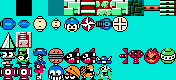
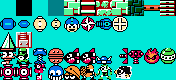
(#166) Added PePe (flying penguin) Enemy
In the Ice Man level, the PePe enemy was misclassified as a Bunby Heli, so I turned the unused "n" enemy tile from MM.json and used it to represent the PePe enemy. The corresponding fix has been made to the VGLC, along with the mapsheet.

Also added a new sprite for the PePe enemy; it doesn't look perfect, so maybe it'll just have to live on my branch for the time being

Changed region(s): [[0.625, 0.825, 0.767, 1.0]]

diff --git a/level_dataset.py b/level_dataset.py
@@ -305,7 +305,10 @@ def mm_tiles(game):
             (4,3),    #35 = Bunby Heli enemy
             (4,4),    #36 = Met enemy
             (4,5),    #37 = Picket man enemy
-            (4,6)     #38 = Crazy razy enemy
+            (4,6),    #38 = Crazy razy enemy
+            (4,7),    #39 = PePe penguin enemy
+            
+            (3,7)     #40 = Changkey fire pillar enemy (reuses the tackle-fire sprite, which doesn't actually have its own tile in MM.json)
         ]
     else:
         MM_tile_coordinates = [
@@ -328,7 +331,12 @@ def mm_tiles(game):
 
     # Extract each tile as a 16x16 image
     MM_tile_images = []
-    for row, col in MM_tile_coordinates:
+    for coord in MM_tile_coordinates:
+        if coord is None:
+            # No sprite exists for this tile on the sheet; use a gray placeholder.
+            MM_tile_images.append(Image.new('RGB', (DIM, DIM), color=(128, 128, 128)))
+            continue
+        row, col = coord
         left = col * DIM
         upper = row * DIM
         right = left + DIM

diff --git a/interactive_tile_level_generator.py b/interactive_tile_level_generator.py
@@ -509,7 +509,7 @@ class CaptionBuilder(ParentBuilder):
 
                 if tile_count == common_settings.LR_TILE_COUNT:        # 8
                     return "Lode Runner"
-                elif tile_count == common_settings.MM_FULL_TILE_COUNT:  # 39
+                elif tile_count == common_settings.MM_FULL_TILE_COUNT:  # 41
                     return "Mega Man (Full)"
                 elif tile_count == 13:
                     # Ambiguous — ask the user to confirm

diff --git a/util/common_settings.py b/util/common_settings.py
@@ -23,7 +23,7 @@ MEGAMAN_WIDTH = 16
 
 MM_TILE_PIXEL_DIM = 16
 MM_SIMPLE_TILE_COUNT = 13
-MM_FULL_TILE_COUNT = 39
+MM_FULL_TILE_COUNT = 41
 
 MM_FULL_TILESET = 'datasets/MM.json'
 MM_SIMPLE_TILESET = 'datasets/MM_Simple_Tileset.json'
